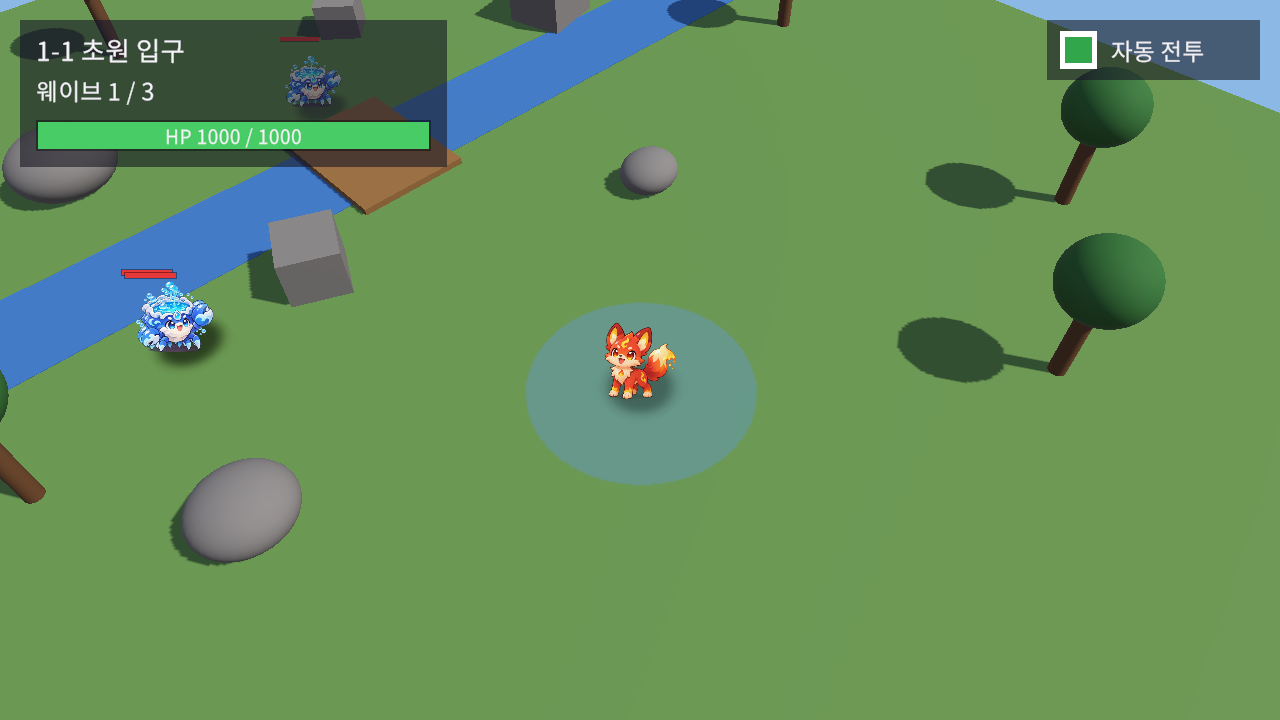
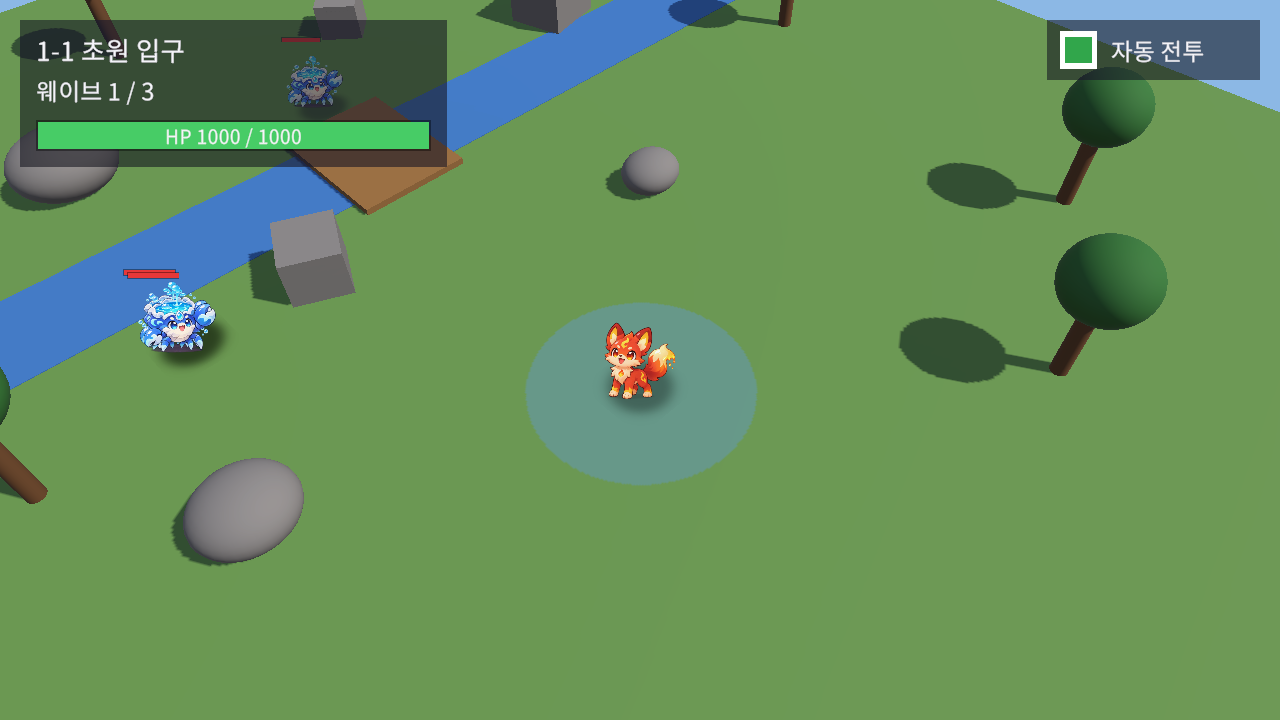
docs: add break branch answer sheet and phase B verification log

diff --git a/docs/실수재현_정답표.md b/docs/실수재현_정답표.md
@@ -1,0 +1,142 @@
+# 실수 재현 정답표
+
+## 1. 브랜치 목록
+
+| 브랜치 | 잘못 건드린 것 | 수강생이 보는 증상 | Console | 3일 편성 |
+|---|---|---|---|---|
+| break/01-meta | Finder · 탐색기에서 NPC 이미지 파일 이름만 변경 | 로비의 상점 주인이 보이지 않습니다. | 프로젝트를 열 때 meta 경고 1건 | 수업 |
+| break/03-null | FieldManager 의 Result Popup 칸 비움 | 마지막 몬스터를 처치해도 결과 창이 뜨지 않습니다. | NullReferenceException | 수업 |
+| break/04-override | Field_01 다리 앞 게 몬스터의 Move Speed 를 0 으로 오버라이드 | 다리 앞(Spawn_02)에서 나온 게 몬스터만 다가오지 않습니다. | 없음 | 수업 |
+| break/06-tag | Monster_Rabbit Variant 의 Tag 를 Untagged 로 변경 | 3웨이브의 토끼 몬스터를 플레이어가 공격하지 않아 스테이지가 끝나지 않습니다. | 없음 | 수업 |
+| break/11-eventsystem | Lobby 씬의 EventSystem 삭제 | 로비의 버튼 4개와 NPC 3명이 클릭에 반응하지 않습니다. | 없음 | 수업 |
+| break/13-spawnkey | Field_01 의 `Spawn_03` 이름을 `Spawn_3` 으로 변경 | 2웨이브 몬스터가 나오지 않고 스테이지가 2웨이브에서 끝나지 않습니다. | 경고 1건 | 수업 |
+
+- 정답 확인 명령은 `git diff main break/번호` 입니다.
+- 브랜치마다 main 에서 만든 커밋 1개가 있고, 실수 1가지만 들어 있습니다.
+- main 을 고친 뒤에는 `tools/rebuild_break_branches.py` 로 break 브랜치를 다시 만듭니다.
+실행 방법은 4절에 적었습니다.
+- 과제용 10개(02 · 05 · 07 · 08 · 09 · 10 · 12 · 14 · 15 · 16)는 다음 단계에서 이 문서에 추가합니다.
+
+## 2. 수업용 6개
+
+### 2-1. break/01-meta
+
+| 항목 | 내용 |
+|---|---|
+| 잘못 건드린 것 | Unity 를 끈 상태에서 Finder · 탐색기로 `Assets/Sprites/NPC/npc_shop.png` 를 `npc_shopkeeper.png` 로 이름만 바꿨습니다.<br>`npc_shop.png.meta` 는 예전 이름으로 남아 있습니다. |
+| 재현 절차 | - GitHub Desktop 에서 break/01-meta 브랜치로 전환합니다.<br>- Unity 로 프로젝트를 엽니다.<br>- Lobby 씬을 열고 Play 합니다. |
+| 수강생이 보는 증상 | 로비 왼쪽의 상점 주인 NPC 가 보이지 않습니다.<br>"상점 주인" 이름 글자만 남습니다. |
+| Console 내용 | 프로젝트를 열 때 경고 1건이 나옵니다.<br>`A meta data file (.meta) exists but its asset 'Assets/Sprites/NPC/npc_shop.png' can't be found. When moving or deleting files outside of Unity, please ensure that the corresponding .meta file is moved or deleted along with it.`<br>Clear 를 누르거나 Play 를 다시 시작하면 사라져서, Play 중에는 Console 이 비어 있습니다. |
+| 계획서 표와 다른 점 | 계획서 표는 Console "없음" 입니다.<br>실제로는 프로젝트를 여는 순간 경고 1건이 나옵니다. |
+| 원인 확인 위치 | Hierarchy `NPCs > NPC_Shop` · Sprite Renderer · Sprite 칸이 Missing 입니다.<br>Project 창 `Assets/Sprites/NPC/` 에 `npc_shop.png` 가 없고 `npc_shopkeeper.png` 가 있습니다. |
+| 함께 나타나는 변화 | Unity 가 열리면서 `npc_shop.png.meta` 를 지우고 `npc_shopkeeper.png.meta` 를 새 GUID 로 만듭니다.<br>그래서 GitHub Desktop Changes 목록에 meta 파일 2개가 표시됩니다. |
+| 복구 방법 | - Unity 를 닫습니다.<br>- GitHub Desktop 에서 Changes 목록의 변경을 Discard 합니다.<br>- 파일 이름을 `npc_shop.png` 로 되돌리면 예전 meta 와 다시 짝이 맞아 표시됩니다.<br>- 실무에서는 Unity Project 창 안에서 이름을 바꿔 meta 가 함께 바뀌게 합니다. |
+| 3단계 자동 검사 | meta 짝 검사 (짝이 없는 meta · 짝이 없는 파일)<br>GUID 참조 검사 (Lobby 씬이 참조하는 GUID 가 어떤 meta 에도 없음) |
+
+### 2-2. break/03-null
+
+| 항목 | 내용 |
+|---|---|
+| 잘못 건드린 것 | Field_01 의 FieldManager 인스펙터에서 Result Popup 칸을 None 으로 비우고 씬을 저장했습니다. |
+| 재현 절차 | - Boot 씬에서 Play 합니다.<br>- 로비에서 출정 게시판을 클릭하고 1-1 스테이지를 고릅니다.<br>- 웨이브 3개를 끝냅니다 (F1 치트 패널의 "필드 몬스터 전부 처치"를 사용하면 빠릅니다). |
+| 수강생이 보는 증상 | 마지막 몬스터를 처치하고 드롭 아이템을 모은 뒤에도 결과 창이 뜨지 않습니다.<br>HUD 는 "웨이브 3 / 3" 에서 멈춥니다. |
+| Console 내용 | 빨간 에러 1건<br>`NullReferenceException: Object reference not set to an instance of an object`<br>`ExpeditionCamp.FieldManager.Finish (System.Boolean cleared) (at Assets/Scripts/Field/FieldManager.cs:243)` |
+| 원인 확인 위치 | Hierarchy `FieldManager` · Field Manager · Result Popup 칸이 None 입니다.<br>에러를 더블클릭하면 `FieldManager.cs` 243행 `resultPopup.Show(...)` 로 이동합니다. |
+| 복구 방법 | Hierarchy 의 `Canvas > Popup_Result` 를 Result Popup 칸으로 끌어다 놓고 씬을 저장하거나, 씬 파일 변경을 Discard 합니다. |
+| 3단계 자동 검사 | 스모크 테스트 5단계 (결과 창 active 가 true 가 아님)<br>Player.log 검사 (Exception 1건) |
+
+연습 씬 P3 의 빈 칸 버튼은 UnassignedReferenceException 을 표시하지만, 이 브랜치는 NullReferenceException 을 표시합니다.
+P3 은 빈 칸의 Unity 기능(AudioSource.Play)을 호출하고, 이 브랜치는 빈 칸의 게임 코드 메서드(ResultPopup.Show)를 호출해서 에러 이름이 달라집니다.
+
+### 2-3. break/04-override
+
+| 항목 | 내용 |
+|---|---|
+| 잘못 건드린 것 | Field_01 의 `SpawnPoints > Spawn_02 > Monster_Crab_Bridge` (비활성 배치 몬스터) 의 Move Speed 를 0 으로 바꾸고 씬을 저장했습니다.<br>프리팹 원본은 바뀌지 않았고 씬 인스턴스 오버라이드만 생겼습니다. |
+| 재현 절차 | - 1-1 스테이지를 시작합니다.<br>- 자동 전투를 끄고 플레이어를 움직이지 않은 채로 몬스터를 관찰합니다. |
+| 수강생이 보는 증상 | 1웨이브의 게 몬스터 3마리 중, 다리 건너편(Spawn_02)에서 나온 1마리만 처음 위치에 서 있습니다.<br>왼쪽(Spawn_01)에서 나온 2마리는 2초 동안 약 2.3 ~ 2.6 만큼 다가옵니다.<br>자동 전투를 켜면 플레이어가 찾아가서 처치하므로 스테이지는 끝납니다. |
+| Console 내용 | 없음 |
+| 원인 확인 위치 | Play 중 Hierarchy 의 `Monster_Crab_Bridge(Clone)` · Monster · Move Speed 가 0 입니다.<br>Play 를 끝내고 `SpawnPoints > Spawn_02 > Monster_Crab_Bridge` 를 선택하면 Move Speed 가 굵은 글씨와 왼쪽 파란 막대로 표시됩니다.<br>원본 `Assets/Resources/Monsters/Monster_Crab.prefab` 의 Move Speed 는 1.8 입니다. |
+| 복구 방법 | `Monster_Crab_Bridge` 의 Move Speed 칸을 우클릭하고 Revert 를 고르거나, Overrides > Revert All 을 누른 뒤 씬을 저장합니다. |
+| 3단계 자동 검사 | 스모크 테스트 (자동 화면 검사로는 찾기 어렵습니다)<br>씬 파일에서 프리팹 인스턴스의 moveSpeed 오버라이드를 찾는 검사로 확인할 수 있습니다. |
+
+Spawn_02 에서 게 몬스터가 나오는 스테이지는 1 · 2 · 3 · 4 · 5스테이지 중 1 · 3 · 4 · 5스테이지입니다.
+
+### 2-4. break/06-tag
+
+| 항목 | 내용 |
+|---|---|
+| 잘못 건드린 것 | `Assets/Resources/Monsters/Monster_Rabbit.prefab` (Variant) 의 Tag 를 Monster 에서 Untagged 로 바꿨습니다. |
+| 재현 절차 | - 1-1 스테이지를 시작합니다.<br>- 자동 전투를 켠 채로 진행합니다 (F1 치트 패널의 무적 · 배속 5 를 쓰면 빠릅니다). |
+| 수강생이 보는 증상 | 1 · 2웨이브는 끝나지만, 3웨이브의 토끼 몬스터 2마리를 플레이어가 공격하지 않습니다.<br>토끼 몬스터는 플레이어에게 다가와 공격하고, 플레이어는 가만히 서 있습니다.<br>스테이지가 끝나지 않습니다. |
+| Console 내용 | 없음 |
+| 원인 확인 위치 | Play 중 Hierarchy 의 `Monster_Rabbit(Clone)` 인스펙터 맨 위 Tag 가 Untagged 입니다.<br>Project 창 `Monster_Rabbit` Variant 의 Tag 가 Untagged 이고, 원본 `Monster_Base` 는 Monster 입니다.<br>F2 디버그 표시의 Monster 개수가 0 으로 표시됩니다. |
+| 복구 방법 | `Monster_Rabbit` Variant 를 열고 Tag 를 Monster 로 되돌리거나, Tag 칸을 우클릭해서 Revert 합니다. |
+| 3단계 자동 검사 | 프리팹 규칙 검사 (몬스터 프리팹 Tag 가 Monster 인지) |
+
+치트의 "필드 몬스터 전부 처치"는 Tag 가 아니라 몬스터 컴포넌트로 찾기 때문에 토끼 몬스터도 처치합니다.
+치트로 진행하면 증상이 나타나지 않습니다.
+QA 연결 컴포넌트 `GET /count?tag=Monster` 는 토끼 몬스터가 살아 있어도 0 을 반환합니다.
+
+### 2-5. break/11-eventsystem
+
+| 항목 | 내용 |
+|---|---|
+| 잘못 건드린 것 | Lobby 씬 Hierarchy 에서 `EventSystem` 오브젝트를 삭제하고 씬을 저장했습니다. |
+| 재현 절차 | - Boot 씬에서 Play 합니다.<br>- 로비에서 가방 · 도감 · 상점 · 설정 버튼과 NPC 3명을 클릭합니다. |
+| 수강생이 보는 증상 | 로비의 버튼 4개와 NPC 3명이 모두 반응하지 않습니다.<br>버튼 색도 바뀌지 않습니다.<br>필드 씬에는 EventSystem 이 있어서 필드의 자동 전투 토글은 동작합니다. |
+| Console 내용 | 없음 |
+| 원인 확인 위치 | Lobby 씬 Hierarchy 에 `EventSystem` 이 없습니다.<br>Hierarchy 검색창에 `t:EventSystem` 을 입력하면 결과가 없습니다. |
+| 복구 방법 | 씬 파일 변경을 Discard 하거나, GameObject > UI > Event System 으로 다시 추가한 뒤 Input System UI Input Module 이 붙어 있는지 확인하고 저장합니다. |
+| 3단계 자동 검사 | 스모크 테스트 3단계 (출정 게시판 클릭 후 씬이 바뀌지 않음) |
+
+QA 연결 컴포넌트의 `/click` 은 EventSystem 없이도 클릭 이벤트를 직접 보내기 때문에, 자동 검사에서는 클릭이 성공할 수 있습니다.
+3단계에서 이 브랜치를 찾으려면 씬에 EventSystem 이 있는지 확인하는 검사가 필요합니다.
+이 차이는 Phase C(15챕터 전환 세션)에서 실제 결과를 확인해야 합니다.
+
+### 2-6. break/13-spawnkey
+
+| 항목 | 내용 |
+|---|---|
+| 잘못 건드린 것 | Field_01 Hierarchy 에서 `SpawnPoints > Spawn_03` 의 이름을 `Spawn_3` 으로 바꾸고 씬을 저장했습니다. |
+| 재현 절차 | - 1-1 스테이지를 시작합니다.<br>- 1웨이브를 끝냅니다. |
+| 수강생이 보는 증상 | 2웨이브가 시작되어 HUD 에 "웨이브 2 / 3" 이 표시되지만 몬스터가 나오지 않습니다.<br>스테이지가 끝나지 않습니다. |
+| Console 내용 | 노란 경고 1건<br>`[Field] spawn point not found: Spawn_03` |
+| 원인 확인 위치 | Field_01 Hierarchy `SpawnPoints` 아래 이름이 `Spawn_3` 입니다.<br>`design_data/Field.xlsx` field_object 시트의 401001 · 2웨이브 행은 `spawn_point_key` 가 `Spawn_03` 입니다. |
+| 복구 방법 | 오브젝트 이름을 `Spawn_03` 으로 되돌리고 저장하거나, 씬 파일 변경을 Discard 합니다. |
+| 3단계 자동 검사 | SpawnPoint 이름 검사 (field_object 시트의 spawn_point_key 가 씬에 있는지) |
+
+Spawn_03 을 사용하는 다른 스테이지(2 · 3 · 4 · 5스테이지)도 해당 웨이브에서 같은 증상이 나타납니다.
+
+## 3. 브랜치를 바꿀 때 주의할 점
+
+- 브랜치를 바꾸기 전에 Unity 를 닫는 것을 권장합니다.
+Unity 가 열린 상태에서 바꾸면 씬을 다시 불러오라는 창이 나오고, 저장하지 않은 씬이 있으면 덮어쓸지 묻습니다.
+- break/01 을 연 뒤에는 Unity 가 meta 파일을 바꾸기 때문에 Changes 목록에 변경이 남습니다.
+다른 브랜치로 바꾸기 전에 Discard 합니다.
+
+## 4. break 브랜치 다시 만들기
+
+main 을 고친 뒤 Unity 를 닫고 저장소 최상위 폴더에서 실행합니다.
+
+Windows
+
+```
+py tools\rebuild_break_branches.py
+```
+
+macOS
+
+```
+python3 tools/rebuild_break_branches.py
+```
+
+일부만 다시 만들 때는 번호를 지정합니다.
+
+```
+python3 tools/rebuild_break_branches.py --only 01,03
+```
+
+- 커밋하지 않은 변경이 있으면 실행하지 않습니다.
+- 기존 break 브랜치는 main 의 최신 커밋에서 새로 만들어 덮어씁니다.
+- Unity 로 적용하는 실수는 `tools/break/BreakApplier.cs` 를 잠시 `Assets/Editor/BreakTemp/` 에 복사해서 실행하고, 실행이 끝나면 지웁니다.

diff --git a/docs/검증기록_PhaseB.md b/docs/검증기록_PhaseB.md
@@ -1,0 +1,34 @@
+# 검증기록 · Phase B
+
+## 1. 검증 환경과 방법
+
+| 항목 | 내용 |
+|---|---|
+| 일자 | 2026-11-17 |
+| 장비 · Unity | Apple M1 Max · macOS 26.6.2 · Unity 6000.3.20f1 |
+| 브랜치 생성 | `python3 tools/rebuild_break_branches.py --only 01,03,04,06,11,13` (6개 42초) |
+| 증상 확인 | 브랜치마다 임시 PlayMode 테스트(`expedition-camp-unity_강사용/verify_temp/BreakChecks/`)를 복사해서 batchmode 로 실행하고, 실행 후 작업 폴더를 되돌렸습니다.<br>임시 테스트는 브랜치에 커밋하지 않았습니다. |
+| 대조 확인 | 같은 6개 테스트를 main 에서 실행해서 증상이 나타나지 않는지 확인했습니다. |
+| 실행 스크립트 | `expedition-camp-unity_강사용/verify_breaks.py` (시스템 python3 로 실행) |
+
+## 2. 수업용 6개 확인 결과
+
+| 브랜치 | 확인 항목 | 결과 | main 대조 |
+|---|---|---|---|
+| break/01-meta | Lobby 를 Play 했을 때 NPC_Shop 의 Sprite 가 비어 있는지 | 재현 · NPC_Shop Sprite 없음, NPC_Dex 는 정상<br>프로젝트를 열 때 meta 경고 1건 | 증상 없음 |
+| break/03-null | 1-1 스테이지 웨이브 3개를 끝냈을 때 결과 창이 뜨는지 | 재현 · 스테이지 종료 처리 후 결과 창 비활성<br>`NullReferenceException` (`FieldManager.cs:243`) 1건 | 증상 없음 |
+| break/04-override | 1웨이브 게 몬스터 3마리의 2초 이동 거리 | 재현 · `Monster_Crab_Bridge(Clone)` Move Speed 0 · 이동 0.00<br>다른 게 몬스터 2마리 Move Speed 1.8 · 이동 2.30 · 2.59 | 증상 없음 |
+| break/06-tag | 자동 전투(무적 · 배속 5)로 1-1 스테이지를 진행했을 때 끝나는지 | 재현 · 4.4초 만에 3웨이브 도달, 이후 15초 동안 끝나지 않음<br>남은 몬스터 `Monster_Rabbit(Clone)` 2마리 · Tag Untagged · Tag Monster 개수 0 | 증상 없음 |
+| break/11-eventsystem | Lobby 에 EventSystem 이 있는지 | 재현 · EventSystem 없음 · Btn_Bag 은 있음 | 증상 없음 |
+| break/13-spawnkey | 1-1 스테이지를 치트로 15초 진행했을 때 웨이브 | 재현 · 웨이브 2 에서 멈춤<br>`[Field] spawn point not found: Spawn_03` 경고 1건 | 증상 없음 |
+
+## 3. Phase B 진행 중 main 에 반영한 수정
+
+| 커밋 | 내용 | 이유 |
+|---|---|---|
+| 6c83776 | `tools/rebuild_break_branches.py` · `tools/break/BreakApplier.cs` 추가 | 지시서 2장 (main 을 고치면 break 브랜치를 다시 만드는 스크립트) |
+| 5e67297 | Player · Monster_Base 의 Character Controller Min Move Distance 를 0 으로 변경<br>장애물에 걸려 움직이지 못하면 0.8초 동안 75도 돌아가는 이동 추가 (`Scripts/Field/Steering.cs`)<br>자동 전투만으로 1스테이지를 끝내는 PlayMode 테스트 추가 | break/04 · 06 확인 중 몬스터가 거의 움직이지 않는 문제를 찾았습니다.<br>프레임이 매우 짧으면 프레임당 이동 거리가 Min Move Distance(0.001)보다 작아 이동이 무시됐습니다.<br>바위를 사이에 두고 플레이어와 몬스터가 서로를 향해 바위를 밀면서 둘 다 멈추는 경우도 있었습니다. |
+
+5e67297 적용 후 1 ~ 10스테이지를 자동 전투(무적 · 배속 5)로 실행해서 10개 모두 끝나는 것을 확인했습니다.
+PlayMode 테스트는 5건 모두 통과했고, Seed 1234 드롭 결과는 바뀌지 않았습니다.
+15챕터 전환 세션은 이 수정이 들어간 main 에서 시작해야 합니다.
